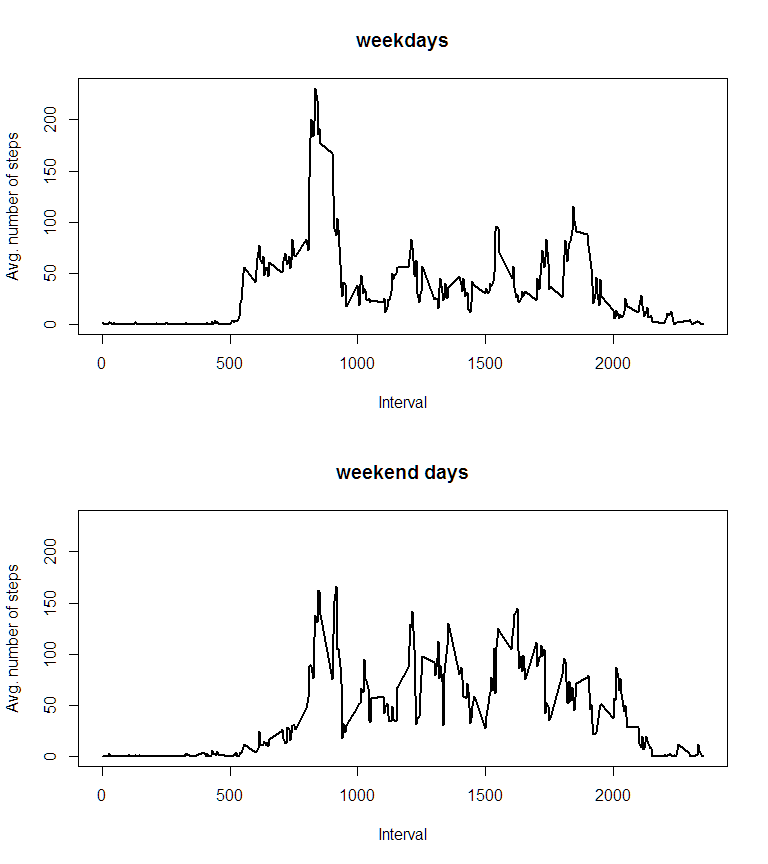
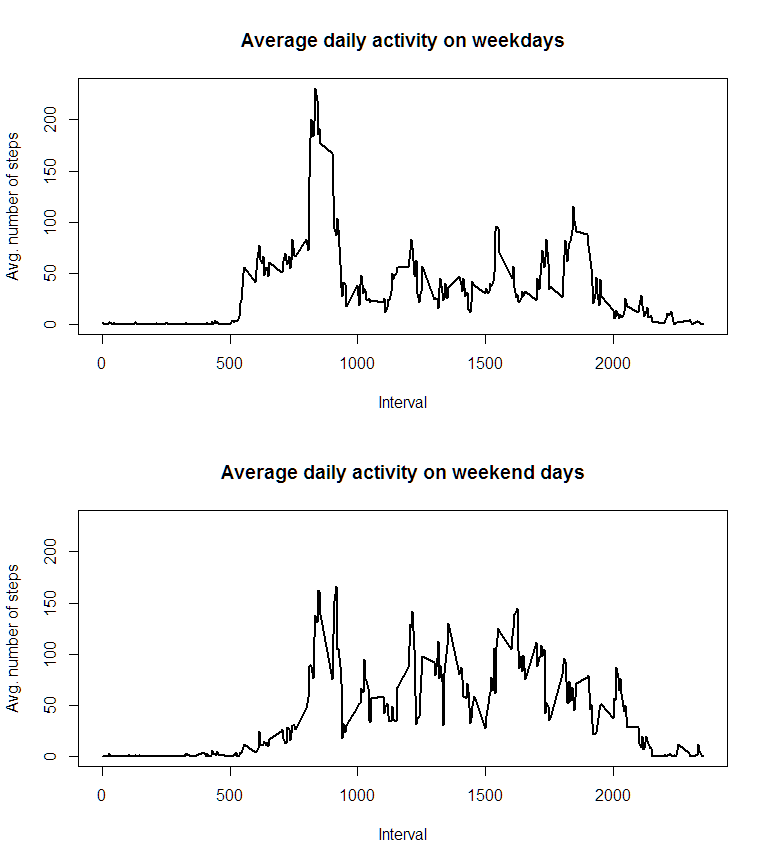
some editorial changes

Changed region(s): [[0.2812, 0.5312, 0.7812, 0.5625], [0.3125, 0.0312, 0.75, 0.0625]]

diff --git a/PA1_template.html b/PA1_template.html
@@ -113,7 +113,7 @@ summary(total_steps_per_day)</code></pre>
 <h4>The mean and median number of steps taken per day</h4>
 <pre class="r"><code>mean_steps_per_day &lt;- mean(total_steps_per_day, na.rm=TRUE)
 median_steps_per_day &lt;- median(total_steps_per_day, na.rm=TRUE)</code></pre>
-<p>The mean is 10766.19 and the median is 10765.</p>
+<p>The mean number of steps taken per day is 10766.19 and the median number of steps taken per day is 10765.</p>
 <p>The mean and median have about the same value. The distribution is fairly symmetric and not skewed.</p>
 </div>
 </div>
@@ -126,7 +126,7 @@ intervals &lt;- sort(unique(data$interval))</code></pre>
 </div>
 <div id="time-series-plot" class="section level4">
 <h4>Time-series plot</h4>
-<p>The following figure shows the time-series plot of the 5-minute interval (x-axis) and the average number of steps taken, averaged across all days (y-axis).</p>
+<p>The following figure shows the time-series plot of the 5-minute interval (x-axis) and the average number of steps taken within the 5-minute interval, averaged across all days (y-axis).</p>
 <pre class="r"><code>plot(intervals, avg_steps_per_interval, type=&quot;l&quot;, lwd=2,
      xlab=&quot;Interval&quot;, ylab=&quot;Mean number of steps&quot;, main=&quot;Average daily activity&quot;)</code></pre>
[1 lines of base64/hex data omitted]
@@ -141,7 +141,7 @@ intervals &lt;- sort(unique(data$interval))</code></pre>
 <h2>Imputing missing values</h2>
 <pre class="r"><code>sumNA &lt;- sum(is.na(data$steps))</code></pre>
 <p>The total number of missing values is 2304.</p>
-<p>A common approach is to fill missing values with the average of non-missing values of that interval.</p>
+<p>A common approach is used to fill missing values with the average of non-missing values of that interval.</p>
 <pre class="r"><code># create a new dataset - initalize
 dataNew &lt;- data
 # loop over all rows
@@ -153,20 +153,20 @@ for (i in 1:nrow(data)) {
                                  na.rm=TRUE)
     }
 }</code></pre>
-<div id="histogram-of-the-total-number-of-steps-taken-each-day-1" class="section level4">
-<h4>Histogram of the total number of steps taken each day</h4>
+<div id="histogram-of-the-total-number-of-steps-taken-each-day-after-imputing-missing-values" class="section level4">
+<h4>Histogram of the total number of steps taken each day after imputing missing values</h4>
 <pre class="r"><code>total_steps_per_dayNew &lt;- tapply(dataNew$steps, dataNew$date, sum)
 
 hist(total_steps_per_dayNew, breaks=20, xlab=&quot;Total number of steps per day&quot;, 
-     ylab=&quot;Percentage&quot;, main=&quot;Total number of steps taken per day&quot;)</code></pre>
[1 lines of base64/hex data omitted]
+     ylab=&quot;Percentage&quot;, main=&quot;Total number of steps taken per day (imputing missing values&quot;)</code></pre>
[1 lines of base64/hex data omitted]
 </div>
 <div id="the-mean-and-median-number-of-steps-taken-per-day-1" class="section level4">
 <h4>The mean and median number of steps taken per day</h4>
 <pre class="r"><code>mean_steps_per_dayNew &lt;- mean(total_steps_per_dayNew)
 median_steps_per_dayNew &lt;- median(total_steps_per_dayNew)</code></pre>
-<p>The mean is 10766.19 and the median is 10766.19.</p>
-<p>Mean and median are the same. The mean is the same as without the imputed values, but the median has changed. When imputing missing values … ???</p>
+<p>The mean number of steps taken per day is 10766.19 and the median number of steps taken per day is 10766.19.</p>
+<p>Mean and median are the same. The mean is the same as without the imputed values, but the median has changed.</p>
 </div>
 </div>
 <div id="are-there-differences-in-activity-patterns-between-weekdays-and-weekends" class="section level2">
@@ -189,10 +189,10 @@ weekday_mean &lt;- tapply(dataNew$steps[dataNew$weekend==FALSE],
 max_steps &lt;- ceiling(max(weekday_mean,weekend_mean))
 par(mfrow=c(2,1))
 plot(intervals, weekday_mean, type=&quot;l&quot;, lwd=2, ylim=c(0,max_steps),
-     xlab=&quot;Interval&quot;, ylab=&quot;Avg. number of steps&quot;, main=&quot;weekdays&quot;)
+     xlab=&quot;Interval&quot;, ylab=&quot;Avg. number of steps&quot;, main=&quot;Average daily activity on weekdays&quot;)
 plot(intervals, weekend_mean, type=&quot;l&quot;, lwd=2, ylim=c(0,max_steps),
-     xlab=&quot;Interval&quot;, ylab=&quot;Avg. number of steps&quot;, main=&quot;weekend days&quot;)</code></pre>
[1 lines of base64/hex data omitted]
+     xlab=&quot;Interval&quot;, ylab=&quot;Avg. number of steps&quot;, main=&quot;Average daily activity on weekend days&quot;)</code></pre>
[1 lines of base64/hex data omitted]
 <pre class="r"><code>par(mfrow=c(1,1))</code></pre>
 <p>As one can clearly recognize, that on weekdays the most active time is in the morning between about 5:30 o’clock and 10:00 o’clock. At weekends the active time starts later, but is more spread out between 8:00 o’clock in the morning and 20:00 o’clock in the evening.</p>
 <pre class="r"><code>weekday_sum &lt;- sum(weekday_mean)

diff --git a/PA1_template.md b/PA1_template.md
@@ -86,8 +86,8 @@ hist(total_steps_per_day, breaks=20, xlab="Total number of steps per day",
 mean_steps_per_day <- mean(total_steps_per_day, na.rm=TRUE)
 median_steps_per_day <- median(total_steps_per_day, na.rm=TRUE)
 ```
-The mean is 10766.19 
-and the median is 10765.
+The mean number of steps taken per day is 10766.19 
+and the median number of steps taken per day is 10765.
 
 The mean and median have about the same value. 
 The distribution is fairly symmetric and not skewed.
@@ -106,7 +106,8 @@ intervals <- sort(unique(data$interval))
 #### Time-series plot 
 
 The following figure shows the time-series plot of the 5-minute interval (x-axis) 
-and the average number of steps taken, averaged across all days (y-axis).
+and the average number of steps taken within the 5-minute interval, 
+averaged across all days (y-axis).
 
 ```r
 plot(intervals, avg_steps_per_interval, type="l", lwd=2,
@@ -134,7 +135,8 @@ sumNA <- sum(is.na(data$steps))
 ```
 The total number of missing values is 2304.
 
-A common approach is to fill missing values with the average of non-missing values of that interval.
+A common approach is used to fill missing values with the average of 
+non-missing values of that interval.
 
 
 ```r
@@ -151,14 +153,14 @@ for (i in 1:nrow(data)) {
 }
 ```
 
-#### Histogram of the total number of steps taken each day
+#### Histogram of the total number of steps taken each day after imputing missing values
 
 
 ```r
 total_steps_per_dayNew <- tapply(dataNew$steps, dataNew$date, sum)
 
 hist(total_steps_per_dayNew, breaks=20, xlab="Total number of steps per day", 
-     ylab="Percentage", main="Total number of steps taken per day")
+     ylab="Percentage", main="Total number of steps taken per day (imputing missing values")
 ```
 
 ![](./figure/unnamed-chunk-12-1.png) 
@@ -170,12 +172,11 @@ hist(total_steps_per_dayNew, breaks=20, xlab="Total number of steps per day",
 mean_steps_per_dayNew <- mean(total_steps_per_dayNew)
 median_steps_per_dayNew <- median(total_steps_per_dayNew)
 ```
-The mean is 10766.19 
-and the median is 10766.19.
+The mean number of steps taken per day is 10766.19 
+and the median number of steps taken per day is 10766.19.
 
 Mean and median are the same. 
 The mean is the same as without the imputed values, but the median has changed.
-When imputing missing values ... ???
 
 
 ## Are there differences in activity patterns between weekdays and weekends?
@@ -206,9 +207,9 @@ weekday_mean <- tapply(dataNew$steps[dataNew$weekend==FALSE],
 max_steps <- ceiling(max(weekday_mean,weekend_mean))
 par(mfrow=c(2,1))
 plot(intervals, weekday_mean, type="l", lwd=2, ylim=c(0,max_steps),
-     xlab="Interval", ylab="Avg. number of steps", main="weekdays")
+     xlab="Interval", ylab="Avg. number of steps", main="Average daily activity on weekdays")
 plot(intervals, weekend_mean, type="l", lwd=2, ylim=c(0,max_steps),
-     xlab="Interval", ylab="Avg. number of steps", main="weekend days")
+     xlab="Interval", ylab="Avg. number of steps", main="Average daily activity on weekend days")
 ```
 
 ![](./figure/unnamed-chunk-14-1.png) 
